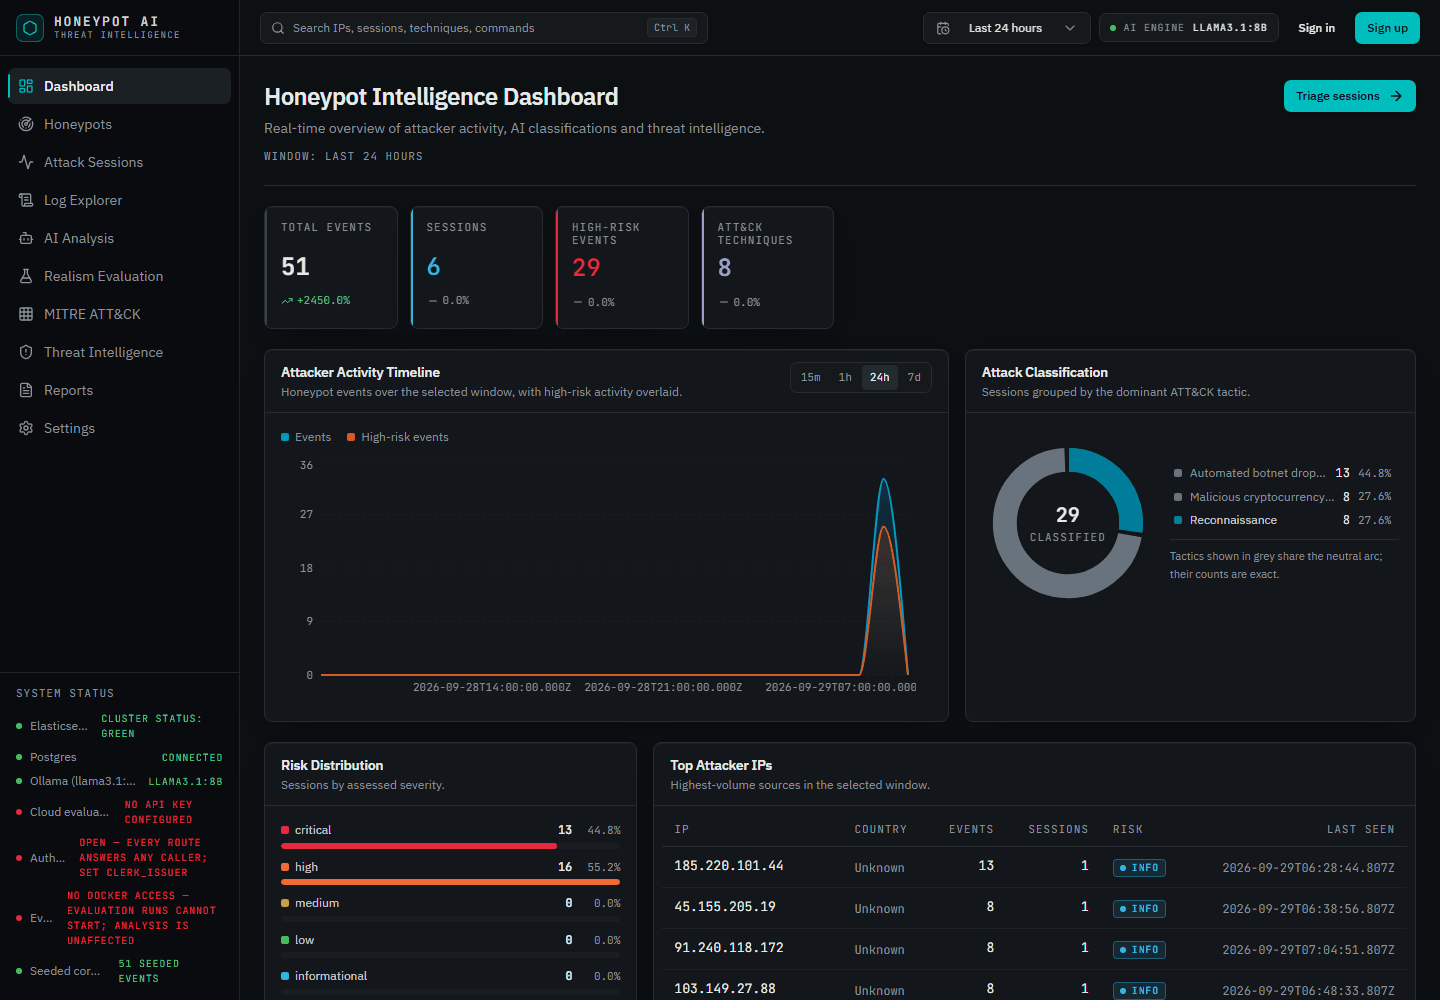
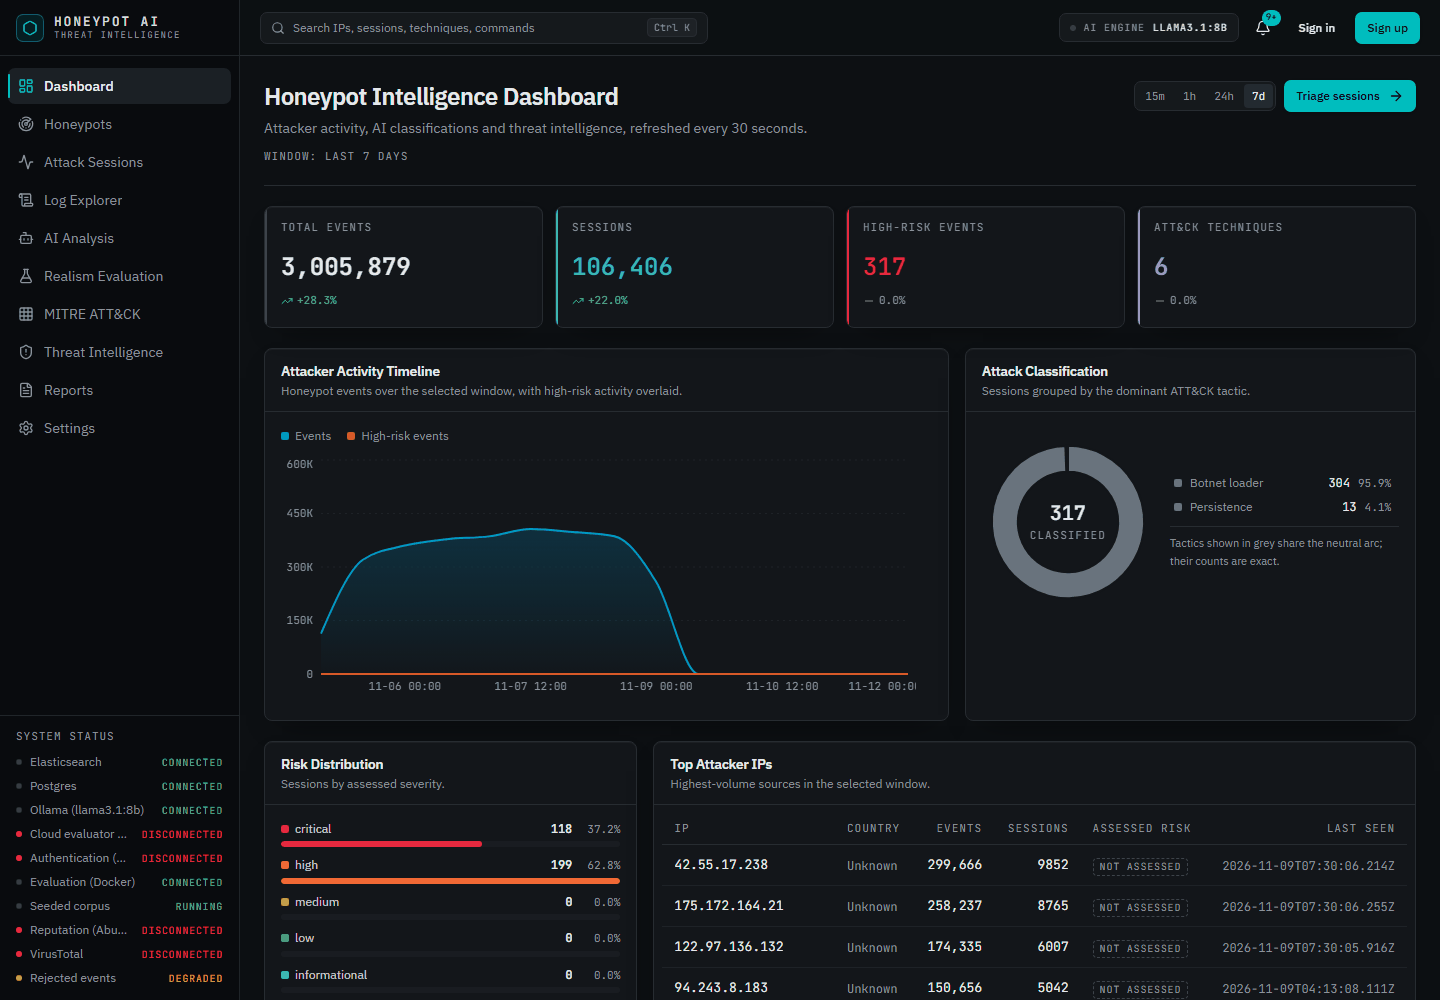
Show live honeypot traffic in the README screenshots and label the remaining demo image

diff --git a/README.md b/README.md
@@ -30,25 +30,38 @@ Based on *"Beekeeper: Accelerating Honeypot Analysis With LLM-Driven Feedback"*
 
 ## Screenshots
 
-**Dashboard** — fleet-wide attacker activity over a selected window.
+The first four screenshots show **real attack traffic** captured by the live honeypot on
+Google Cloud (`gcp-wild-01`) between 5 and 9 November 2026; the classifications come from
+the local model analysing five of those sessions.
 
-![Dashboard](assets/screenshots/dashboard.png)
+**Dashboard** — seven days of live traffic: 3 million events from 106,000 sessions. The
+traffic ends on 9 November, when the honeypot's own egress guard stopped it for the rest
+of the month.
 
-**Attack sessions** — every captured session ranked for triage, with its risk score and
-the ATT&CK tactic chain it exercised.
+![Dashboard over seven days of live honeypot traffic, 5–9 November 2026](assets/screenshots/dashboard.png)
 
-![Attack sessions](assets/screenshots/sessions.png)
+**Sensor page** — the live honeypot itself: what it is disguised as (the `web-server`
+persona) and since when, every recorded configuration change, and its traffic, cut at each
+change so periods can be compared.
 
-**Threat intelligence** — extracted indicators, each carrying its own provenance tier.
-`OBSERVED` came straight from telemetry; `CORRELATED` was derived across more than one
-session.
+![Sensor page of the live GCP honeypot gcp-wild-01](assets/screenshots/sensor.png)
 
-![Threat intelligence](assets/screenshots/threat-intel.png)
+**Attack sessions** — captured sessions, newest first, with the campaigns above them:
+sessions that ran the identical command sequence, grouped deterministically. These are
+botnets replaying one script from many addresses.
 
-**MITRE ATT&CK mapping** — techniques positioned on the Enterprise matrix, with the count
-of evidence behind each one.
+![Attack sessions and campaigns captured by the live honeypot](assets/screenshots/sessions.png)
 
-![MITRE ATT&CK mapping](assets/screenshots/mitre.png)
+**MITRE ATT&CK mapping** — one live session (`595b6c411118`) on the Enterprise matrix. The
+four highlighted techniques are *observed*: a deterministic rule matched the command.
+
+![MITRE ATT&CK matrix for one live honeypot session](assets/screenshots/mitre.png)
+
+**Threat intelligence** *(seeded demo data)* — extracted indicators, each carrying its own
+provenance tier. `OBSERVED` came straight from telemetry; `CORRELATED` was derived across
+more than one session.
+
+![Threat intelligence indicators from the seeded demo corpus](assets/screenshots/threat-intel.png)
 
 **Realism evaluation** — run history for the half that attacks the honeypot, with both
 fingerprints, the evaluator's status and who started each run. The honeypot column shows
